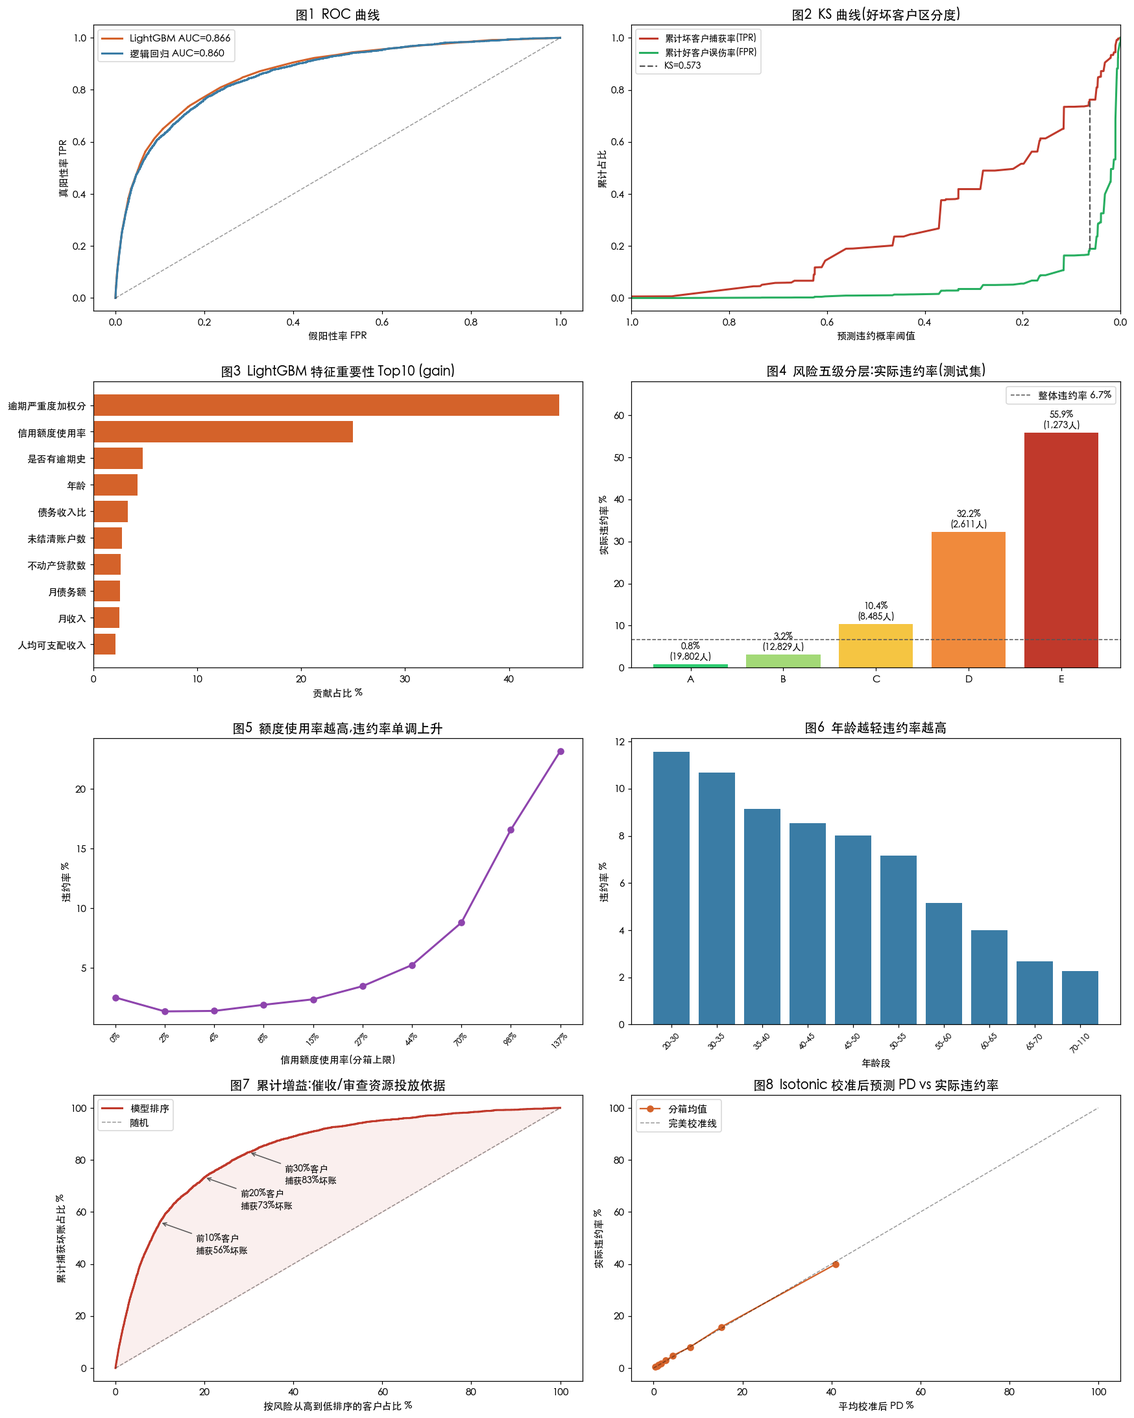
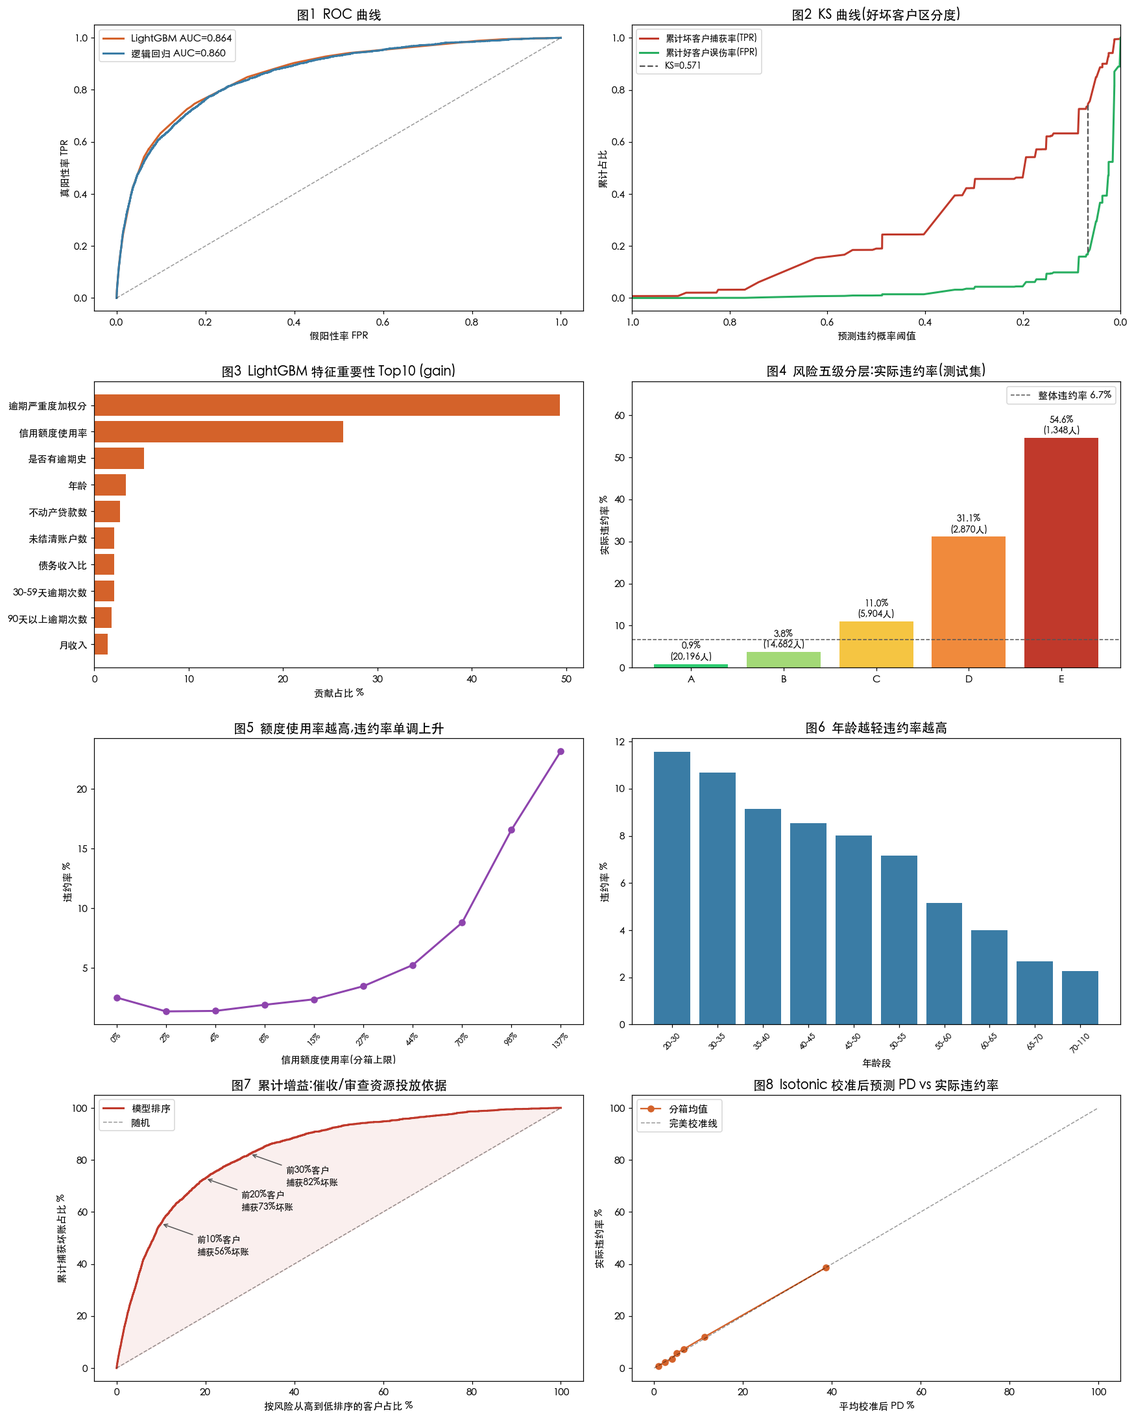
fix: 修正交叉验证与风险分层的评估口径
- 交叉验证 Pipeline 直接接特征工程器，transform 会额外产出
  *_capped_flag 等诊断列，CV 实际用了 19 个特征而最终模型只用 17 个，
  两个 AUC 不同口径却并列在报告里。新增 ModelFeatureSelector 收敛特征集。
- 验证集同时承担选树数、拟合 Isotonic 校准器、确定 A-E 分层阈值三种用途。
  更关键的是分层阈值读的是校准器自身训练样本上的输出——等温回归在训练点上
  大量落到同一段平台值，分位切点因此重合，只能靠 np.nextafter 强行错开，
  得到的 A/B 边界其实没有区分度。
  改为把验证集对半拆成互不相交的选模子集与校准子集：校准器只在校准子集拟合，
  阈值取自校准器未见过的选模子集。
- make_tier_bins 增加 strict 模式，切点退化时直接报错而非悄悄补浮点数；
  新增 tier_bin_health 诊断并在脚本中打印（本次：58 个不同取值、0 个退化切点）。

重跑结果（真实 LightGBM）：AUC 0.866 / KS 0.573，CV 0.864±0.004（同一套特征），
Brier 0.132→0.049，五层违约率 0.9%/3.8%/11.0%/31.1%/54.6% 单调。
README 与 analysis_report 的数字、图表已同步更新。

测试：7 passed（新增 4 个回归用例）

diff --git a/src/step3_model.py b/src/step3_model.py
@@ -27,7 +27,9 @@ from sklearn.preprocessing import StandardScaler
 from modeling import (
     FinancialFeatureTransformer,
     MODEL_FEATURES,
+    ModelFeatureSelector,
     make_tier_bins,
+    tier_bin_health,
 )
 
 
@@ -48,19 +50,27 @@ y = raw["default_2y"]
 X_train, X_te_raw, y_train, y_te = train_test_split(
     X_raw, y, test_size=0.30, random_state=42, stratify=y
 )
-# 内层验证集用于选树数、拟合概率校准器、确定风险分层阈值。
+# 内层验证集再拆成两份互不相交的子集，避免同一批样本同时承担三种用途：
+#   val_select —— 选树数，并在校准之后用来确定风险分层阈值
+#   val_cal    —— 只用于拟合等温校准器
+# 这样分层阈值读到的是"校准器没见过"的概率，不会因等温回归的平台值而退化。
 X_fit_raw, X_val_raw, y_fit, y_val = train_test_split(
     X_train, y_train, test_size=0.20, random_state=43, stratify=y_train
 )
+X_sel_raw, X_cal_raw, y_sel, y_cal = train_test_split(
+    X_val_raw, y_val, test_size=0.50, random_state=44, stratify=y_val
+)
 print(
-    f"建模集 {len(X_fit_raw):,} | 验证集 {len(X_val_raw):,} | "
+    f"建模集 {len(X_fit_raw):,} | 验证集 {len(X_val_raw):,} "
+    f"(选模 {len(X_sel_raw):,} / 校准 {len(X_cal_raw):,}) | "
     f"冻结测试集 {len(X_te_raw):,}（违约率 {y_te.mean():.2%}）"
 )
 
 # 只用建模集学习中位数、截断分位数和特殊编码上限。
 feature_transformer = FinancialFeatureTransformer().fit(X_fit_raw)
 X_fit = feature_transformer.transform(X_fit_raw)[MODEL_FEATURES]
-X_val = feature_transformer.transform(X_val_raw)[MODEL_FEATURES]
+X_sel = feature_transformer.transform(X_sel_raw)[MODEL_FEATURES]
+X_cal = feature_transformer.transform(X_cal_raw)[MODEL_FEATURES]
 X_te = feature_transformer.transform(X_te_raw)[MODEL_FEATURES]
 
 results = {}
@@ -96,10 +106,10 @@ for n_estimators in candidate_estimators:
         verbose=-1,
     )
     candidate.fit(X_fit, y_fit)
-    val_prob = candidate.predict_proba(X_val)[:, 1]
+    sel_prob = candidate.predict_proba(X_sel)[:, 1]
     validation_rows.append({
         "n_estimators": n_estimators,
-        "validation_auc": roc_auc_score(y_val, val_prob),
+        "validation_auc": roc_auc_score(y_sel, sel_prob),
     })
     candidate_models[n_estimators] = candidate
 
@@ -110,16 +120,18 @@ best_n = int(
     ).iloc[0]["n_estimators"]
 )
 lgbm = candidate_models[best_n]
-print("\n===== 验证集选树数（测试集未参与） =====")
+print("\n===== 选模子集选树数（校准子集与测试集均未参与） =====")
 print(validation_df.to_string(index=False, float_format=lambda v: f"{v:.5f}"))
 print(f"选择 n_estimators={best_n}")
 
-# ---------- 概率校准 ----------
-p_val_raw = lgbm.predict_proba(X_val)[:, 1]
+# ---------- 概率校准：只用 val_cal 拟合 ----------
+p_cal_raw = lgbm.predict_proba(X_cal)[:, 1]
+p_sel_raw = lgbm.predict_proba(X_sel)[:, 1]
 p_gbm_raw = lgbm.predict_proba(X_te)[:, 1]
 calibrator = IsotonicRegression(out_of_bounds="clip")
-calibrator.fit(p_val_raw, y_val)
-p_val = calibrator.transform(p_val_raw)
+calibrator.fit(p_cal_raw, y_cal)
+# 分层阈值读的是选模子集——校准器没有在它上面拟合过，因此不会落在平台值上。
+p_sel = calibrator.transform(p_sel_raw)
 p_gbm = calibrator.transform(p_gbm_raw)
 
 results["LightGBM"] = {
@@ -132,8 +144,12 @@ results["LightGBM"] = {
 }
 
 # 5 折 CV 中每一折独立拟合 FinancialFeatureTransformer，避免预处理泄漏。
+# ModelFeatureSelector 让 CV 用到的特征与最终模型完全一致（17 个）。
+# 少了这一步，Pipeline 会把 *_capped_flag 等诊断列也喂给模型，
+# CV AUC 与冻结测试集 AUC 就成了两个口径，并列在报告里会误导。
 cv_model = Pipeline([
     ("features", FinancialFeatureTransformer()),
+    ("select", ModelFeatureSelector()),
     ("model", lgb.LGBMClassifier(
         n_estimators=best_n,
         learning_rate=0.03,
@@ -177,8 +193,15 @@ imp = pd.DataFrame({
 imp["gain_pct"] = imp["gain"] / imp["gain"].sum()
 imp = imp.sort_values("gain", ascending=False).reset_index(drop=True)
 
-# ---------- 风险分层：阈值由验证集确定，冻结后应用到测试集 ----------
-bins = make_tier_bins(p_val)
+# ---------- 风险分层：阈值由"校准器未见过"的选模子集确定，冻结后应用到测试集 ----------
+tier_health = tier_bin_health(p_sel)
+print(
+    "\n===== 分层阈值健康度（阈值样本：选模子集，校准器未见过）====="
+    f"\n样本量 {tier_health['sample_size']:,}｜"
+    f"不同概率取值 {tier_health['distinct_probabilities']:,}｜"
+    f"退化切点 {tier_health['collapsed_cutoffs']}"
+)
+bins = make_tier_bins(p_sel, strict=True)
 te = X_te.copy()
 te["y"] = y_te.values
 te["prob_raw"] = p_gbm_raw
@@ -218,6 +241,9 @@ with open("data/model_artifacts.pkl", "wb") as f:
         "y_te": y_te,
         "p_gbm": p_gbm,
         "p_gbm_raw": p_gbm_raw,
+        "p_sel": p_sel,
+        "y_sel": y_sel,
+        "tier_health": tier_health,
         "p_lr": p_lr,
         "imp": imp,
         "tier": tier,

diff --git a/src/modeling.py b/src/modeling.py
@@ -21,6 +21,27 @@ MODEL_FEATURES = [
 ]
 
 
+class ModelFeatureSelector(BaseEstimator, TransformerMixin):
+    """把特征工程的输出收敛到与最终模型完全一致的特征集。
+
+    FinancialFeatureTransformer.transform 会保留原始列并额外产出
+    ``*_capped_flag`` 等诊断列。若直接把它接进交叉验证的 Pipeline，CV 用到的
+    特征就比最终模型多，两个 AUC 不同口径、不可比。放这一步在中间即可对齐。
+    """
+
+    def fit(self, X: pd.DataFrame, y=None):
+        missing = [c for c in MODEL_FEATURES if c not in X.columns]
+        if missing:
+            raise ValueError(f"缺少建模特征: {missing}")
+        return self
+
+    def transform(self, X: pd.DataFrame) -> pd.DataFrame:
+        return X[MODEL_FEATURES]
+
+    def get_feature_names_out(self, input_features=None):
+        return np.asarray(MODEL_FEATURES, dtype=object)
+
+
 class FinancialFeatureTransformer(BaseEstimator, TransformerMixin):
     """训练集拟合、任意数据集复用的清洗与财务特征工程。"""
 
@@ -82,11 +103,45 @@ class FinancialFeatureTransformer(BaseEstimator, TransformerMixin):
         return frame
 
 
-def make_tier_bins(probabilities) -> np.ndarray:
-    """用验证集概率生成可冻结到测试/生产数据的 A-E 分层阈值。"""
-    bins = np.quantile(probabilities, [0, 0.40, 0.70, 0.90, 0.97, 1.0])
+TIER_QUANTILES = [0, 0.40, 0.70, 0.90, 0.97, 1.0]
+
+
+def make_tier_bins(probabilities, *, strict: bool = False) -> np.ndarray:
+    """用验证集概率生成可冻结到测试/生产数据的 A-E 分层阈值。
+
+    注意口径：传入的概率必须是**校准器没有见过**的样本上的输出。等温回归在
+    自身训练样本上的输出会大量落到同一段平台值，分位点因此高度重合，只能靠
+    ``np.nextafter`` 强行错开——那样得到的 A/B 边界实际上没有区分度。
+
+    ``strict=True`` 时遇到重合分位点直接报错，而不是悄悄补一个相邻浮点数。
+    """
+    probabilities = np.asarray(probabilities, dtype=float)
+    bins = np.quantile(probabilities, TIER_QUANTILES)
+    degenerate = [
+        (TIER_QUANTILES[i], TIER_QUANTILES[i - 1])
+        for i in range(1, len(bins) - 1)
+        if bins[i] <= bins[i - 1]
+    ]
+    if degenerate and strict:
+        raise ValueError(
+            f"分层阈值退化（分位点取值重合）: {degenerate}；"
+            "请改用校准器未见过的样本计算阈值"
+        )
     bins[0], bins[-1] = -np.inf, np.inf
     for i in range(1, len(bins) - 1):
         if bins[i] <= bins[i - 1]:
             bins[i] = np.nextafter(bins[i - 1], np.inf)
     return bins
+
+
+def tier_bin_health(probabilities) -> dict:
+    """诊断分层阈值是否真的有区分度，供报告与测试断言使用。"""
+    probabilities = np.asarray(probabilities, dtype=float)
+    raw = np.quantile(probabilities, TIER_QUANTILES)
+    inner = raw[1:-1]
+    return {
+        "distinct_probabilities": int(np.unique(probabilities).size),
+        "sample_size": int(probabilities.size),
+        "inner_cutoffs": inner.tolist(),
+        "collapsed_cutoffs": int(np.sum(np.diff(inner) <= 0)),
+    }

diff --git a/tests/test_modeling.py b/tests/test_modeling.py
@@ -44,3 +44,60 @@ def test_tier_bins_are_strict_and_cover_all_probabilities():
     assert np.all(np.diff(bins) > 0)
     assert np.isneginf(bins[0])
     assert np.isposinf(bins[-1])
+
+
+# ============================================================
+# 代码审查后补充：锁住两处已修复的评估口径问题
+# ============================================================
+
+def test_feature_selector_aligns_cv_and_final_model_features():
+    """CV Pipeline 必须与最终模型用同一套特征。
+
+    FinancialFeatureTransformer.transform 会额外产出 *_capped_flag 等诊断列，
+    旧的 CV Pipeline 直接把它们喂给模型，导致 CV AUC 比最终模型多用了特征、
+    两个数不可比。ModelFeatureSelector 负责把口径收敛回 MODEL_FEATURES。
+    """
+    from src.modeling import MODEL_FEATURES, ModelFeatureSelector
+
+    frame = _sample()
+    engineered = FinancialFeatureTransformer().fit(frame).transform(frame)
+    # 特征工程本身确实会多出诊断列
+    assert set(engineered.columns) - set(MODEL_FEATURES)
+
+    selected = ModelFeatureSelector().fit(engineered).transform(engineered)
+    assert list(selected.columns) == MODEL_FEATURES
+
+
+def test_feature_selector_rejects_missing_features():
+    from src.modeling import ModelFeatureSelector
+    import pytest
+
+    with pytest.raises(ValueError, match="缺少建模特征"):
+        ModelFeatureSelector().fit(pd.DataFrame({"age": [1, 2]}))
+
+
+def test_tier_bins_strict_mode_rejects_degenerate_cutoffs():
+    """等温校准器在自身训练样本上的输出会大量落到同一平台值，
+    分位切点因此重合。strict=True 必须报错，而不是用 nextafter 悄悄补一个
+    相邻浮点数造出"看起来有区分度"的阈值。"""
+    import pytest
+    from src.modeling import make_tier_bins
+
+    degenerate = [0.02] * 90 + [0.9] * 10   # 只有两个取值 -> 内部切点重合
+    with pytest.raises(ValueError, match="分层阈值退化"):
+        make_tier_bins(degenerate, strict=True)
+
+    # 非 strict 仍保持向后兼容：返回严格递增的边界
+    bins = make_tier_bins(degenerate)
+    assert np.all(np.diff(bins) > 0)
+
+
+def test_tier_bin_health_flags_collapsed_cutoffs():
+    from src.modeling import tier_bin_health
+
+    healthy = tier_bin_health(np.linspace(0.01, 0.6, 500))
+    assert healthy["collapsed_cutoffs"] == 0
+    assert healthy["distinct_probabilities"] == 500
+
+    collapsed = tier_bin_health([0.02] * 90 + [0.9] * 10)
+    assert collapsed["collapsed_cutoffs"] > 0

diff --git a/docs/analysis_report.md b/docs/analysis_report.md
@@ -3,7 +3,7 @@
 > **数据**:Kaggle "Give Me Some Credit" 公开竞赛数据(150,000 条真实信贷记录)
 > **任务**:预测借款人未来两年发生 90 天以上严重逾期(违约)的概率
 > **方法**:评分卡方法论(WOE/IV) + 逻辑回归基线 + LightGBM 主模型 + SHAP 归因
-> **结果**:冻结测试集 **AUC 0.867 / KS 0.576**,前 10% 高风险客户捕获 **56%** 的全部违约；Isotonic 校准后 Brier 由 0.138 降至 0.049
+> **结果**:冻结测试集 **AUC 0.866 / KS 0.573**,前 10% 高风险客户捕获 **55.6%** 的全部违约；Isotonic 校准后 Brier 由 0.132 降至 0.049
 
 ---
 
@@ -120,11 +120,11 @@
 
 ### 5.1 实验设计(防泄漏、防过拟合)
 
-- **切分**:先做 70/30 外层分层切分，冻结 45,000 条测试集；训练部分再切出 21,000 条独立验证集
-- **无泄漏预处理**:收入中位数、异常截断分位数和特殊编码上限只在建模集拟合；5 折 CV 每折重新拟合转换器
+- **切分**:先做 70/30 外层分层切分，冻结 45,000 条测试集；训练部分再切出 21,000 条验证集，并把它**对半拆成互不相交的两份**——选模子集 10,500 条（选树数 + 定分层阈值）与校准子集 10,500 条（只拟合 Isotonic）
+- **无泄漏预处理**:收入中位数、异常截断分位数和特殊编码上限只在建模集拟合；5 折 CV 每折重新拟合转换器，并经 `ModelFeatureSelector` 收敛到与主模型完全一致的 17 个特征，保证 CV AUC 与测试集 AUC 同口径可比
 - **不均衡处理**:逻辑回归用 class_weight='balanced';LightGBM 用 scale_pos_weight≈14(负正样本比)
-- **防过拟合**:浅树(max_depth=5)+ 叶节点最小样本 100 + L1/L2 正则 + 行列采样 0.8;树数量只在独立验证集对比 100/300/500/800 后选定 300
-- **校准与分层**:Isotonic 校准器和 A-E 分层阈值都只用验证集拟合，再冻结应用到测试集
+- **防过拟合**:浅树(max_depth=5)+ 叶节点最小样本 100 + L1/L2 正则 + 行列采样 0.8;树数量只在选模子集对比 100/300/500/800 后选定 100
+- **校准与分层**:Isotonic 校准器只在校准子集拟合；A-E 分层阈值取自**校准器未见过**的选模子集。这一点很关键——等温回归在自身训练样本上的输出会大量落到同一段平台值，分位切点因此重合，那样得到的 A/B 边界其实没有区分度。脚本会打印阈值健康度（本次：58 个不同概率取值、0 个退化切点），退化时直接报错而非悄悄错开浮点数
 - **稳定性验证**:5 折分层交叉验证
 
 ### 5.2 模型表现
@@ -132,12 +132,12 @@
 | 模型 | 测试集 AUC | 测试集 KS | 说明 |
 |---|---|---|---|
 | 逻辑回归(基线) | 0.860 | 0.566 | 评分卡风格,系数可解释 |
-| **LightGBM(主模型)** | **0.867** | **0.576** | 5折CV: 0.865 ± 0.005 |
+| **LightGBM(主模型)** | **0.866** | **0.573** | 5折CV: 0.864 ± 0.004（同一套 17 特征） |
 
 **质量核查三件套**:
 1. **隔离检查**:模型选择、校准和阈值制定均未读取冻结测试集;
-2. **稳定性检查**:5 折 CV 标准差 0.005,不依赖单次切分运气;
-3. **校准检查**:Brier 由 0.138 降至 0.049，校准 PD 可用于风险分层；跨客群使用仍须重新校准。
+2. **稳定性检查**:5 折 CV 标准差 0.004,不依赖单次切分运气;且 CV 与主模型使用同一套特征，两个 AUC 可直接对照;
+3. **校准检查**:Brier 由 0.132 降至 0.049，校准 PD 可用于风险分层；跨客群使用仍须重新校准。
 
 本地随机测试集与 Kaggle 竞赛私榜并非同一批样本，因此本报告不再用两者作冠军成绩对比。
 
@@ -149,27 +149,27 @@
 
 ### 5.4 校准说明(诚实披露)
 
-scale_pos_weight 会使原始输出概率系统性偏高，因此用独立验证集拟合 Isotonic 校准器。测试集 Brier 从 0.138 降至 0.049，风险层的平均校准 PD 与实际违约率已基本对齐。该结果支持排序和 PD 分层，但不能单独构成 IFRS 9 ECL：正式计提仍需 EAD、LGD、宏观情景与分期规则。
+scale_pos_weight 会使原始输出概率系统性偏高，因此用独立的校准子集拟合 Isotonic 校准器。测试集 Brier 从 0.132 降至 0.049，风险层的平均校准 PD 与实际违约率已基本对齐。该结果支持排序和 PD 分层，但不能单独构成 IFRS 9 ECL：正式计提仍需 EAD、LGD、宏观情景与分期规则。
 
 ---
 
 ## 六、风险分层与业务落地(核心产出)
 
-在验证集上确定 A~E 阈值并冻结，再应用到测试集:
+在**校准器未见过**的选模子集上确定 A~E 阈值并冻结，再应用到测试集:
 
-| 风险层 | 客户占比 | 实际违约率 | 坏账捕获占比 | 建议动作(AR 语言) |
-|---|---|---|---|---|
-| **A** | 44.0% | **0.8%** | 5.6% | 白名单:可放宽账期、提高额度,减少审查频次 |
-| **B** | 28.5% | 3.2% | 13.5% | 正常管理:标准账期,季度复审 |
-| **C** | 18.9% | 10.4% | 29.3% | 关注:月度对账,新订单前查最新回款状态 |
-| **D** | 5.8% | **32.2%** | 28.0% | 预警:压缩账期/要求预付比例,催收前置 |
-| **E** | 2.8% | **55.9%** | 23.6% | 高危:暂停赊销、只做现款,专人催收 |
+| 风险层 | 客户占比 | 实际违约率 | 平均校准 PD | 坏账捕获占比 | 建议动作(AR 语言) |
+|---|---|---|---|---|---|
+| **A** | 44.9% | **0.9%** | 0.9% | 5.9% | 白名单:可放宽账期、提高额度,减少审查频次 |
+| **B** | 32.6% | 3.8% | 3.8% | 18.5% | 正常管理:标准账期,季度复审 |
+| **C** | 13.1% | 11.0% | 10.3% | 21.5% | 关注:月度对账,新订单前查最新回款状态 |
+| **D** | 6.4% | **31.1%** | 28.0% | 29.7% | 预警:压缩账期/要求预付比例,催收前置 |
+| **E** | 3.0% | **54.6%** | 61.4% | 24.5% | 高危:暂停赊销、只做现款,专人催收 |
 
 ### 三个可量化的业务结论
 
-**1. 催收资源投放:前 10% 客户捕获 56% 坏账**(图7 累计增益)。若催收人力只够覆盖 10% 的客户,按模型排序 vs 随机排序,坏账拦截效率提升 5.6 倍;覆盖前 30% 可捕获约 84% 的坏账。
+**1. 催收资源投放:前 10% 客户捕获 55.6% 坏账**(图7 累计增益)。若催收人力只够覆盖 10% 的客户,按模型排序 vs 随机排序,坏账拦截效率提升 5.6 倍;覆盖前 30% 可捕获约 82% 的坏账。
 
-**2. 差异化风险监控**:传统统一规则忽略同账龄客户差异。校准 PD 可用于分层监控(E 层约 60.1% vs A 层约 0.8%)；若用于正式坏账计提，还必须叠加 EAD/LGD、宏观情景与会计政策。
+**2. 差异化风险监控**:传统统一规则忽略同账龄客户差异。校准 PD 可用于分层监控(E 层平均校准 PD 约 61.4% vs A 层约 0.9%)；若用于正式坏账计提，还必须叠加 EAD/LGD、宏观情景与会计政策。
 
 **3. 授信政策前移**:额度使用率>90%、或出现首次 60 天+逾期,即触发人工审查——不必等模型分,两个单变量规则就能覆盖最陡的风险跳变点,规则+模型双层布防。
 

diff --git a/README.md b/README.md
@@ -6,10 +6,10 @@
 
 | 指标 | 结果 |
 |---|---|
-| 冻结测试集 AUC | **0.867** |
-| 冻结测试集 KS | **0.576** |
-| 5 折 CV 稳定性 | 0.865 ± 0.005 |
-| 概率校准 | Brier **0.138 → 0.049** |
+| 冻结测试集 AUC | **0.866** |
+| 冻结测试集 KS | **0.573** |
+| 5 折 CV 稳定性 | 0.864 ± 0.004（与主模型同一套 17 个特征） |
+| 概率校准 | Brier **0.132 → 0.049** |
 | 业务转化 | 前 10% 高风险客户捕获 **56%** 全部坏账 |
 
 ![分析图表](assets/analysis_charts.png)
@@ -19,9 +19,9 @@
 1. **真实脏数据处理**:19.8% 非随机收入缺失(缺失标记而非删除)、96/98 特殊编码(截断+标记,因其违约率约 55%,是信号非噪音)、比率字段量纲爆炸(99.5 分位截断)——每条清洗决策都有业务理由
 2. **财务视角特征工程**:自建"账龄加权逾期严重度分"(delinq_score),IV 达 1.22 登顶全部 17 个特征,验证账龄加权这一财务直觉在数据上成立
 3. **评分卡方法论**:WOE/IV 变量筛选,量化验证"历史付款行为的预测力是财务状况类变量的 10 倍以上"
-4. **无泄漏实验设计**:清洗统计量仅在训练折拟合；独立验证集完成树数选择、Isotonic 校准和风险阈值冻结；测试集只用于最终一次评估
+4. **无泄漏实验设计**:清洗统计量仅在训练折拟合；验证集**再拆成互不相交的选模子集与校准子集**——树数选择与风险阈值走选模子集，Isotonic 校准器只在校准子集拟合，避免同一批样本三重复用；测试集只用于最终一次评估
 5. **可解释性落地**:SHAP 单客户归因,三个代表案例(高危/边界/白名单)展示"每个模型决策可追溯到具体特征",回应财务/审计场景对黑箱模型的质疑
-6. **业务闭环**:冻结阈值后五级风险分层(E 层实际违约率 55.9% vs A 层 0.8%)→ 三项可落地财务策略
+6. **业务闭环**:冻结阈值后五级风险分层(E 层实际违约率 54.6% vs A 层 0.9%)→ 三项可落地财务策略
 
 完整分析过程、结果解读与案例分析见 **[docs/analysis_report.md](docs/analysis_report.md)**。
 
@@ -60,7 +60,7 @@ python src/step4_viz_cases.py    # 8 张图表 + SHAP 个体案例归因
 
 - 数据为**个人信贷**场景;企业应收账款建模需替换特征体系(回款账期偏离度、订单集中度、争议发票率等),但方法论完全同构
 - 数据无时间戳,未做 out-of-time 验证;生产环境须按时间切分并以 PSI 监控模型漂移
-- 已用独立验证集完成 Isotonic 校准；若迁移到新客群/新时间窗口，仍需重新校准并监控 Brier/PSI
+- 已用独立校准子集完成 Isotonic 校准，分层阈值取自校准器未见过的选模子集（脚本会打印阈值健康度，退化时直接报错）；若迁移到新客群/新时间窗口，仍需重新校准并监控 Brier/PSI
 - 本地随机测试集与 Kaggle 竞赛私榜不是同一测试集，因此不作冠军成绩横向对比
 - 本项目只覆盖 PD 排序/校准；正式 ECL 还需 EAD、LGD、宏观情景与分期规则
 - 数据源为 Kaggle 公开竞赛数据,仅用于学习研究
@@ -69,4 +69,4 @@ python src/step4_viz_cases.py    # 8 张图表 + SHAP 个体案例归因
 
 - [ ] Streamlit 交互式风险看板(客户列表 + 风险分 + SHAP 瀑布图)
 - [ ] 与 [finance-rag-qa](https://github.com/Elias-love/finance-rag-qa) 的 NL2SQL 模块打通,实现"一句话查客户风险画像"
-- [x] Isotonic 概率校准层 + 验证集冻结风险阈值
+- [x] Isotonic 概率校准层 + 冻结风险阈值（校准与定阈使用互不相交的验证子集）
